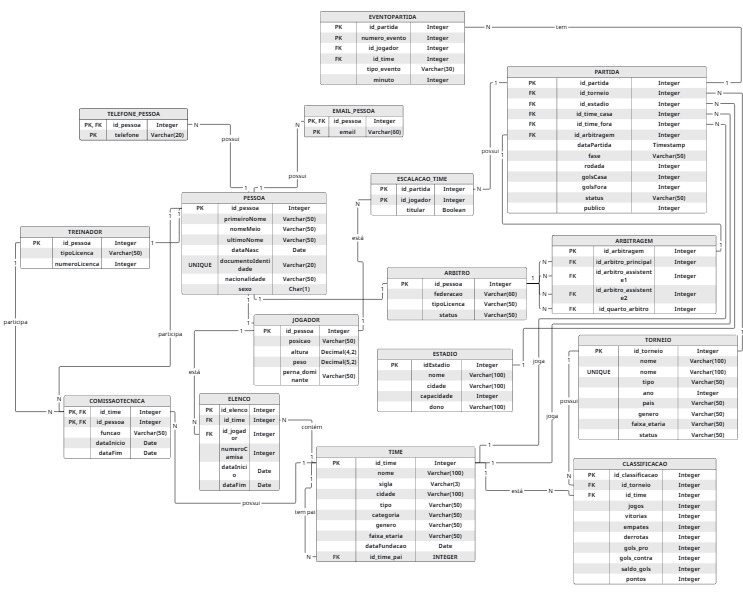
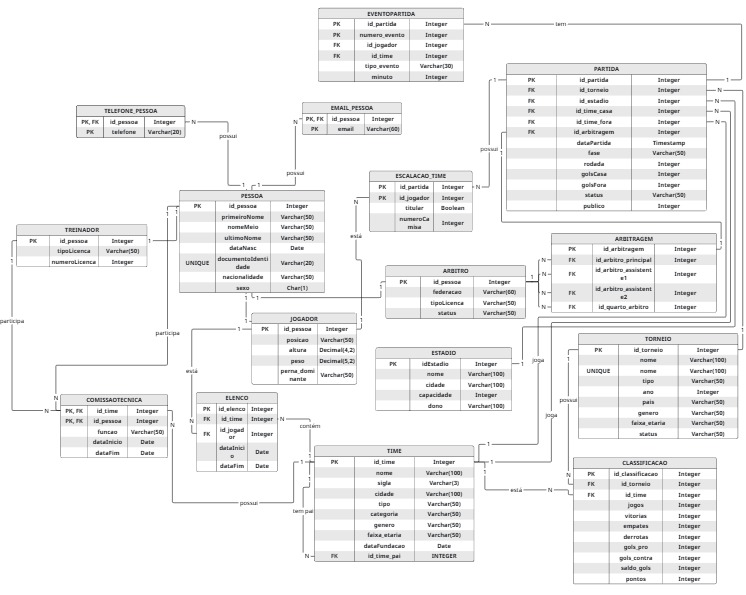
Update README and SQL scripts for improved clarity and detail in functionalities and data examples

Changed region(s): [[0.0, 0.0, 1.0, 0.9983], [0.0929, 0.1815, 0.3405, 0.242]]

diff --git a/scripts/README.md b/scripts/README.md
@@ -12,9 +12,12 @@ Script de criação das tabelas do banco de dados.
 
 ### `SoccerData_inserts.sql`
 Script com dados de exemplo para popular o banco.
-- Dados de teste para todas as tabelas
-- Cenários realistas de torneios brasileiros
-- Times, jogadores e partidas de exemplo
+- 120 pessoas (jogadores, árbitros, treinadores, comissão)
+- 30 times (20 masculinos, 10 femininos)
+- 30 estádios brasileiros
+- 29 torneios (Brasileiro, estaduais, copas)
+- 25 partidas com eventos e escalações
+- Classificações atualizadas
 
 ### `SoccerData_selects.sql`
 Consultas úteis e relatórios do sistema.
@@ -30,21 +33,21 @@ Funções personalizadas do PostgreSQL.
 
 ### `SoccerData_sp.sql`
 Stored procedures para operações complexas.
-- `CadastrarJogador()`: Cadastro completo de jogador
-- `TransferirJogador()`: Transferência entre times
-- `FinalizarPartida()`: Finalização com atualização automática
+- `CadastrarJogador()`: Cadastro completo de jogador com validações
+- `TransferirJogador()`: Transferência entre times com histórico
+- `FinalizarPartida()`: Finalização com atualização automática da classificação
 
 ### `SoccerData_triggers.sql`
 Triggers para automação e validação.
-- Atualização automática da classificação
-- Validação de vínculos de jogadores
-- Controle de eventos de partida
+- `trg_atualizar_classificacao`: Atualização automática após partidas
+- `trg_impedir_duplo_vinculo`: Impede jogador em múltiplos times
+- `trg_validar_evento_partida`: Valida eventos apenas em partidas ativas
 
 ## 🚀 Ordem de Execução
 
 1. `SoccerData_create.sql` - Criar estrutura
 2. `SoccerData_functions.sql` - Criar funções
-3. `SoccerData_sp.sql` - Criar procedures
-4. `SoccerData_triggers.sql` - Criar triggers
+3. `SoccerData_triggers.sql` - Criar triggers
+4. `SoccerData_sp.sql` - Criar procedures
 5. `SoccerData_inserts.sql` - Popular dados
 6. `SoccerData_selects.sql` - Testar consultas

diff --git a/README.md b/README.md
@@ -58,24 +58,27 @@ Sistema de banco de dados para gerenciamento completo de torneios de futebol, in
 - **Relatório Técnico**: Ver [relatorioTecnico/README.md](relatorioTecnico/README.md)
 
 ## 🎯 Funcionalidades
-- Cadastro de pessoas (jogadores, árbitros, treinadores)
-- Gestão de times e elencos
-- Controle de torneios e fases
-- Registro de partidas e eventos
-- Sistema de classificação automática
-- Controle de arbitragem
+- Cadastro completo de pessoas
+- Gestão de 30 times (masculinos e femininos)
+- Controle de 29 torneios brasileiros
+- Registro de partidas com eventos detalhados
+- Sistema de classificação automática via triggers
+- Controle de arbitragem com 4 árbitros por partida
+- Escalações e transferências de jogadores
 
 ## 📊 Principais Funcionalidades
 
-### Consultas Disponíveis
-- Classificação completa de torneios
-- Estatísticas detalhadas de jogadores
-- Histórico completo de partidas
-- Eventos e lances por partida
-- Análise de desempenho de árbitros
-- Artilheiros por campeonato
-- Público médio por estádio
-- Cartões por time
+### Consultas Disponíveis (10 consultas principais)
+- Partidas completas com detalhes de times, árbitros e estádios
+- Gols marcados por time como mandante
+- Jogadores que marcaram gols em partidas (considerando apenas jogadores com contrato ativo)
+- Árbitros que mais apitaram no Brasileiro
+- Estádios que nunca sediaram partidas
+- Artilheiros do Campeonato Brasileiro
+- Estádios com maior público médio
+- Jogadores com mais tempo de clube
+- Classificação atual do Brasileiro Feminino
+- Times com mais cartões recebidos
 
 ### Automações
 - Atualização automática da classificação

diff --git a/docs/README.md b/docs/README.md
@@ -18,7 +18,7 @@ Diagrama do modelo relacional implementado.
 - Estrutura física do banco de dados
 - Constraints e tipos de dados
 
-![Diagrama Relacional](SoccerData_ERelacional.png)
+![Diagrama Relacional](SoccerData_ERelacional.jpg)
 
 ### `SoccerData_ERelacional.pgerd`
 Arquivo fonte do diagrama relacional (pgModeler).
